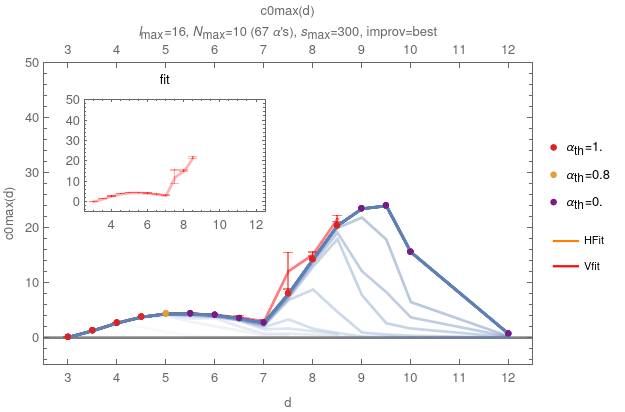
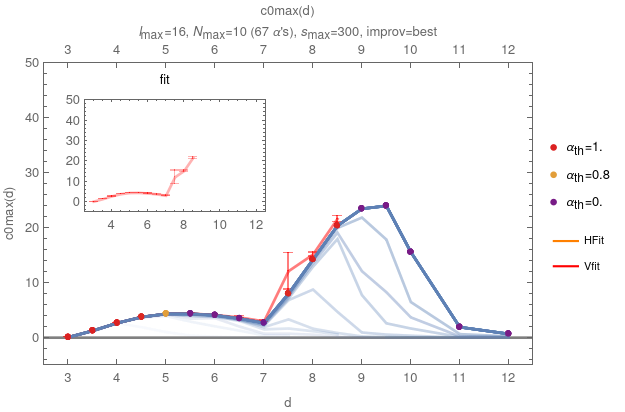
AutoCommit

Changed region(s): [[0.6384, 0.6117, 0.8208, 0.8155]]

diff --git a/script.js b/script.js
@@ -17,7 +17,7 @@ const cidImgMax = document.getElementById("cidImgMax");
 const cidImgMin = document.getElementById("cidImgMin");
 
 
-const allowedD = [3, 3.5, 4, 4.5, 5, 5.5, 6, 6.5, 7, 7.5, 8, 8.5, 9, 9.5, 10, 11, 12];
+const allowedD = [3, 3.5, 4, 4.5, 5, 5.5, 6, 6.5, 7, 7.5, 8, 8.5, 9, 9.5, 10, 10.5, 11, 11.5, 12];
 
 const configByD = {
   3  : { paramCI: { min: 0, max: 3, step: 1, allowed: [0,2,3] }, paramL: { min: 0, max: 2, step: 2 }, paramLmax: { min: 16, max: 16, step: 2 }, paramNmax: { min: 10, max: 20, step: 1 }, },
@@ -72,6 +72,9 @@ const improvByDimension = {
   9: "TH, subTH, ftTH, SPC",
   9.5: "TH, subTH, SPC",
   10: "TH, subTH, SPC",
+  10.5: "TH, subTH, SPC",
+  11: "TH, subTH, ftTH, SPC",
+  11.5: "TH, subTH, SPC",
   12: "TH, subTH, SPC"
 };
 

diff --git a/image_count.js b/image_count.js
@@ -1,4 +1,4 @@
 window.imageInfo = {
-  count: 6928,
-  last_updated: "2025-12-11 12:26:33"
+  count: 6931,
+  last_updated: "2025-12-11 13:26:34"
 };
